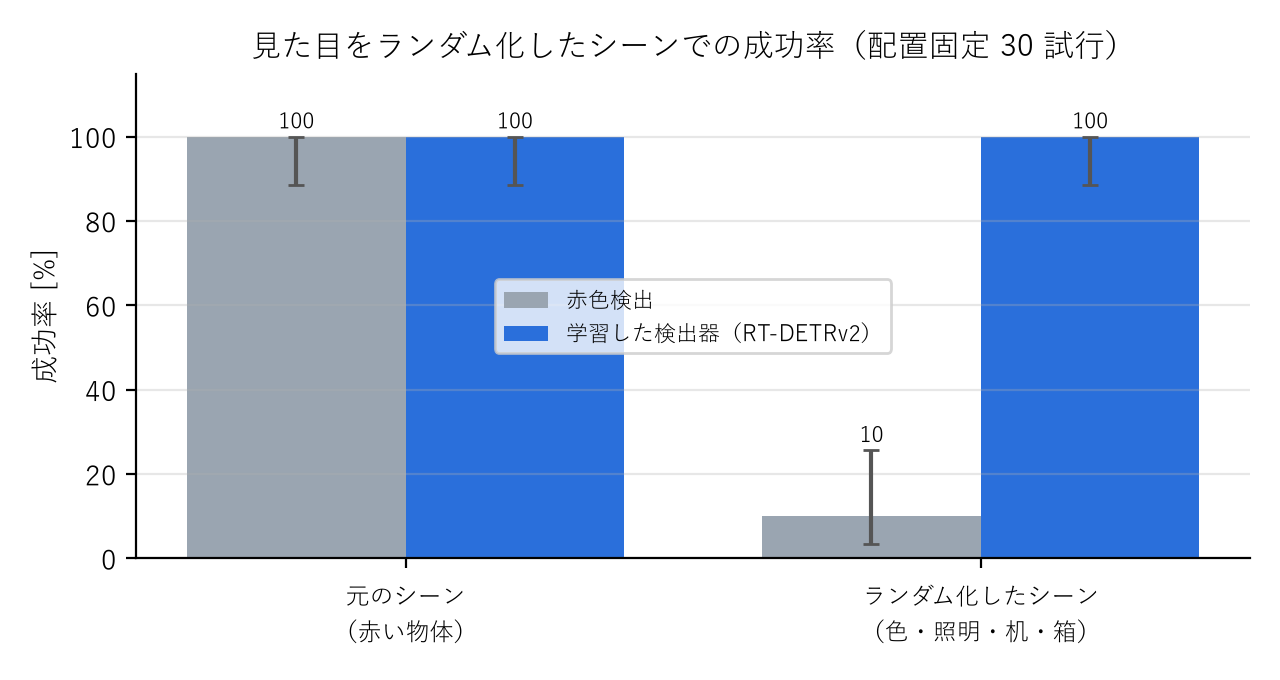
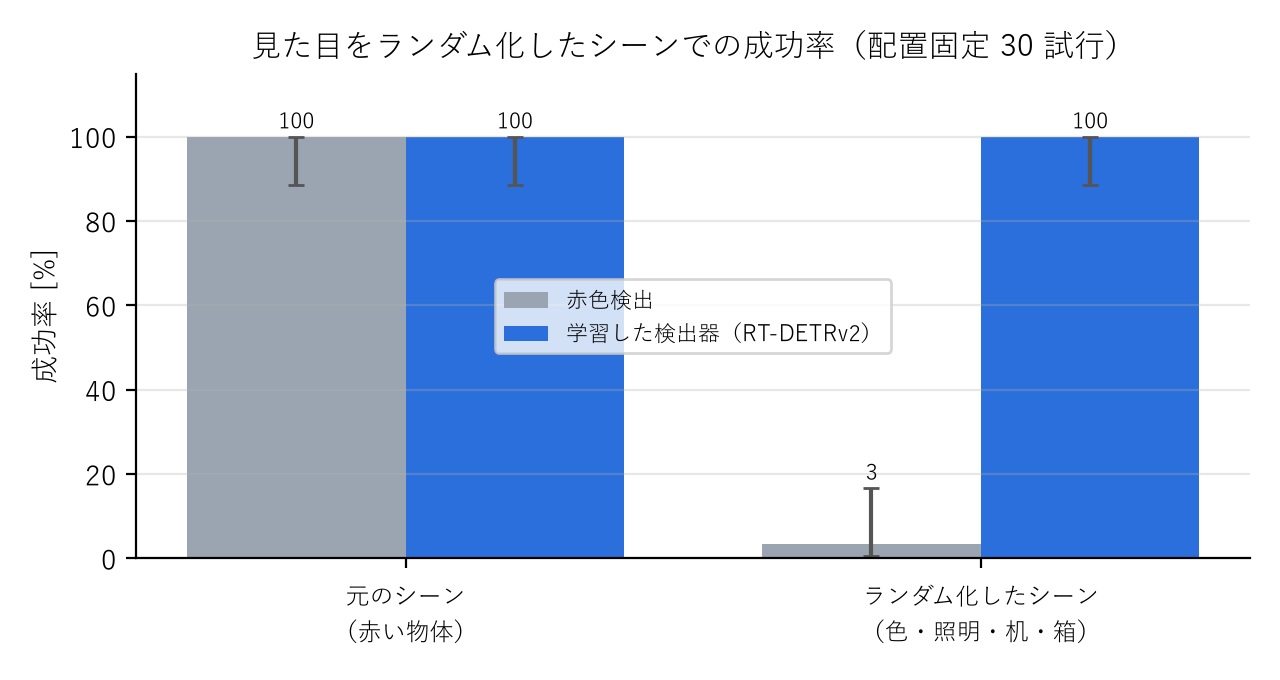
評価でシーンの見た目を物体の置き直しより先に変える（赤色検出への情報の漏れを修正）。レポート・動画に物体検出器を反映
- policy_evaluator: 配置が分かる場合は見た目を先に変える。測り直しで赤色検出 1/30・学習した検出器 30/30
- eval_positions/eval_paired: 推論ノードの起動をサービスの出現で待つ
- 動画: 検出例と俯瞰カメラ映像での比較場面を追加（2 分 8 秒）。レポートの数値を更新

Changed region(s): [[0.5938, 0.7412, 0.7812, 0.8029], [0.6562, 0.6176, 0.6875, 0.7103]]

diff --git a/scripts/video/compose.py b/scripts/video/compose.py
@@ -102,8 +102,8 @@ class Composer:
         return p
 
     # ---- 素材の切り出し ----
-    def trial_windows(self, clip, trials):
-        """events.csv から試行ごとの [方策 ON の 0.5 秒前, 成功の 1 秒後（なければ OFF）] を返す."""
+    def trial_windows(self, clip, trials, tail=1.0):
+        """events.csv から試行ごとの [方策 ON の 0.5 秒前, 成功の tail 秒後（なければ OFF）] を返す."""
         rows = list(csv.DictReader(open(self.media / f'{clip}.mp4.events.csv')))
         ons = [i for i, r in enumerate(rows) if r['event'] == 'policy_on']
         out = []
@@ -113,7 +113,7 @@ class Composer:
             end = None
             for r in rows[i + 1:]:
                 if r['event'] == 'success':
-                    end = float(r['time']) + 1.0
+                    end = float(r['time']) + tail
                     break
                 if r['event'] == 'policy_off':
                     end = float(r['time'])
@@ -152,16 +152,19 @@ class Composer:
                      *self.encode_opts(), str(out)])
         return out
 
-    def compare(self, left, right, window_l, window_r, speed, max_seconds, overlay, crop=None):
+    def compare(self, left, right, window_l, window_r, speed, max_seconds, overlay, crop=None, panel_height=None):
         out = self.segment_out()
-        hw, hh = self.W // 2, self.H // 2
+        hw, hh = self.W // 2, panel_height or self.H // 2   # 左右それぞれの映像の大きさ
 
         def part(idx, w):
             s, e = w
             trim = f'trim=start={s}' + (f':end={e}' if e is not None else '')
             # crop: 素材のうち使う範囲 [x, y, 幅, 高さ]（素材サイズに対する割合）。ロボット周辺を拡大する
             cr = f'crop=iw*{crop[2]}:ih*{crop[3]}:iw*{crop[0]}:ih*{crop[1]},' if crop else ''
-            return f'[{idx}:v]{trim},setpts=(PTS-STARTPTS)/{speed},fps={self.fps},{cr}scale={hw}:{hh}[p{idx}]'
+            # 縦横比を保って縮小し、余白で {hw}x{hh} にそろえる（俯瞰カメラの 4:3 の映像も歪めない）
+            return (f'[{idx}:v]{trim},setpts=(PTS-STARTPTS)/{speed},fps={self.fps},{cr}'
+                    f'scale={hw}:{hh}:force_original_aspect_ratio=decrease,'
+                    f'pad={hw}:{hh}:(ow-iw)/2:(oh-ih)/2:color=0x101622[p{idx}]')
 
         dur = f',trim=end={max_seconds}' if max_seconds else ''
         filt = (f'{part(0, window_l)};{part(1, window_r)};'
@@ -197,9 +200,10 @@ class Composer:
                                        self.label_layer([item['left_label'], item['right_label']]))
                 k = item['trials'][0]
                 segs.append(self.compare(item['left'], item['right'],
-                                         self.trial_windows(item['left'], [k])[0],
-                                         self.trial_windows(item['right'], [k])[0],
-                                         speed, item.get('max_seconds'), overlay, item.get('crop')))
+                                         self.trial_windows(item['left'], [k], item.get('tail', 1.0))[0],
+                                         self.trial_windows(item['right'], [k], item.get('tail', 1.0))[0],
+                                         speed, item.get('max_seconds'), overlay, item.get('crop'),
+                                         item.get('panel_height')))
             else:
                 raise ValueError(f'unknown timeline type: {t}')
         lst = self.work / 'list.txt'

diff --git a/ros2_ws/src/pai_task_env/pai_task_env/policy_evaluator.py b/ros2_ws/src/pai_task_env/pai_task_env/policy_evaluator.py
@@ -161,6 +161,19 @@ class PolicyEvaluator(Node):
         while time.monotonic() < end and self.status.get('episode') == before:
             self.spin_for(0.05)
 
+    def reset_and_randomize(self, i):
+        """物体を置き直し、有効ならシーンの見た目を変える.
+
+        配置が事前に分かる場合は見た目を先に変える。置き直した後に変えると、変わるまでの間に
+        検出器が元の見た目（赤い物体）を見て推定値を保持してしまい、評価が甘くなる（2026-10-11 に発見）。
+        """
+        known = self.positions is not None
+        if known:
+            self.randomize_scene(i)
+        self.reset_object(i)
+        if not known:
+            self.randomize_scene(i)
+
     def randomize_scene(self, i):
         """有効ならシーンをランダムに変える（物体位置はダミーと重ならないよう考慮）."""
         if self.randomizer is None:
@@ -187,8 +200,7 @@ class PolicyEvaluator(Node):
         self.set_bool('/teleop/enable', True)
         if self.observe:
             self.move_ee(*self.observe_ee, duration=self.observe_move_time)
-            self.reset_object(i)
-            self.randomize_scene(i)
+            self.reset_and_randomize(i)
             self.spin_for(0.5)
             if not self.wait_detection():
                 self.get_logger().warn('object was not detected before the trial')
@@ -199,8 +211,7 @@ class PolicyEvaluator(Node):
         else:
             self.trigger('/teleop/home')
             self.spin_for(self.settle_time)
-            self.reset_object(i)
-            self.randomize_scene(i)
+            self.reset_and_randomize(i)
             self.status = {}
             self.spin_for(self.settle_time)
             self.wait_settled()

diff --git a/scripts/video/record_clips.py b/scripts/video/record_clips.py
@@ -3,6 +3,7 @@
 python3 ~/final_task/scripts/video/record_clips.py [clip 名 ...]   # 省略時は docs/report/video.yaml の全 clip
 Gazebo GUI の 3D ビューを画面録画し（capture 設定）、方策 ON/OFF・成功の時刻を event_logger で記録する。
 出力: <media_dir>/<clip>.mp4 と <clip>.mp4.events.csv（動画内の秒）
+clip に overhead: true があれば、俯瞰カメラの映像も <clip>_overhead.mp4（＋events）として保存する（frame_recorder）。
 """
 import csv
 import os
@@ -50,6 +51,12 @@ def record(name, spec, cap, media_dir):
                              '-video_size', f'{w}x{h}', '-i', f"{cap['display']}+{x},{y}",
                              '-c:v', 'libx264', '-preset', 'ultrafast', '-crf', '18', str(out)],
                             stdin=subprocess.PIPE, start_new_session=True)
+    overhead = None
+    if spec.get('overhead'):
+        overhead = subprocess.Popen(['ros2', 'run', 'pai_task_env', 'frame_recorder', '--ros-args',
+                                     '-p', f'output:={media_dir / (name + "_overhead.mp4")}',
+                                     '-p', 'topic:=/task/camera/image', '-p', 'fps:=10.0', '-p', 'duration:=0.0'],
+                                    start_new_session=True)
     try:
         if spec['kind'] == 'eval':
             pos = ','.join(str(v) for v in spec['positions'])
@@ -66,6 +73,8 @@ def record(name, spec, cap, media_dir):
     finally:
         grab.communicate(b'q', timeout=30)   # ffmpeg は q で正常終了（mp4 を閉じる）
         stop(logger)
+        if overhead is not None:
+            stop(overhead)
     to_video_time(abs_csv, Path(f'{out}.events.csv'), t0)
     abs_csv.unlink()
     print(f'recorded {out}', flush=True)

diff --git a/docs/design/perception/detector.md b/docs/design/perception/detector.md
@@ -56,11 +56,13 @@
 | シーン | 物体位置の推定 | 成功率 | 95% CI |
 |---|---|---|---|
 | ランダム化 | **学習した検出器** | **30/30 = 100%** | 89–100% |
-| ランダム化 | 赤色検出 | 3/30 = 10% | 3–26% |
+| ランダム化 | 赤色検出 | 1/30 = 3% | 1–17% |
 | 元のシーン（赤い物体） | 学習した検出器 | 30/30 = 100% | 89–100% |
 | 元のシーン（赤い物体） | 赤色検出（実験9） | 30/30 = 100% | 89–100% |
 
 - 学習した検出器は、見た目が変わっても元のシーンと同じ成功率を保った。赤色検出は物体が赤系でないと検出できず、ほぼ失敗する
+- 評価手順の修正（2026-10-11）: 当初は「物体を置き直す → 見た目を変える」の順で、変わるまでの間に赤色検出が赤い物体を見て推定値を保持していた
+  （赤色検出 3/30 は甘い結果）。配置が分かる場合は見た目を先に変えるよう `policy_evaluator` を直し、両方を測り直した（上の表は修正後。学習した検出器は修正前も 30/30）
 - 方策（ACT）は再学習していない。物体位置の推定を差し替えるだけで頑健性が上がった
 
 起動手順:
@@ -68,6 +70,8 @@
 TASK_ENV_ARGS="red_detector:=false" ~/final_task/scripts/sim/start_stack.sh
 cd ~/pai_training && pixi run --frozen detect-node --config configs/detection/detect_rtdetr.yaml &
 EVAL_ARGS="-p scene_randomization.enabled:=true" bash ~/final_task/scripts/sim/eval_paired.sh 0 30 dr_learned:configs/pick/infer_objpos_startrand_camera.yaml
+# 赤色検出と同時に動かして比べる場合: 検出ノードを detect_rtdetr_parallel.yaml（/task/object_pose_learned）で起動し、
+# 推論は infer_objpos_startrand_learned.yaml を使う（タスク環境は red_detector:=true のまま）
 ```
 
 ## 限界

diff --git a/docs/work_log/20261011.md b/docs/work_log/20261011.md
@@ -74,7 +74,9 @@
 ### 学習ベースの物体検出器（ADR 0008, 詳細は docs/design/perception/detector.md）
 - ドメインランダム化した俯瞰画像を自動生成（1200 枚＋評価用 300 枚。正解の枠は円柱の投影で自動付与）し、RT-DETRv2 を学習（約 13 分）
 - 評価画像で位置誤差 平均 0.28mm・全数検出（赤色検出は 9/300）。枠の中心から側面の見え方を補正して位置を逆算
-- 方策での評価（配置固定 30）: ランダム化シーンで学習した検出器 30/30・赤色検出 3/30、元のシーンでも 30/30
+- 方策での評価（配置固定 30）: ランダム化シーンで学習した検出器 30/30・赤色検出 1/30（評価手順の修正後。修正前は 3/30）、元のシーンでも 30/30
+  - 評価手順の不備: 物体を置き直してから見た目を変えていたため、その間に赤色検出が赤い物体を見て推定を保持していた → 見た目を先に変えるよう修正
+- レポートに 4.8 節、動画に検出器の比較場面（俯瞰カメラ映像。GUI はランダム化した照明で暗く映るため）を追加。動画は 2 分 8 秒
 - トラブル: 生成が遅い（30 秒/枚）→ 箱の使い回し・IK での事前判定・並列呼び出しで 5.6 秒/枚。照明設定で範囲・減衰が 0 になり暗くなった。
   ign-transport の不調（Host unreachable、ロボットが出現しない）→ compose に `IGN_IP=127.0.0.1`、start_stack でロボットの出現を確認
 - 従来のスクリプトデモ・赤色検出が動くことを確認（スクリプトデモ 2/2）

diff --git a/docs/decision/index.md b/docs/decision/index.md
@@ -9,4 +9,4 @@
 | [0005](0005-物体位置の取得方式.md) | 物体位置の取得方式 | OdometryPublisher + ros_gz_bridge で物体の world 姿勢を取得 |
 | [0006](0006-把持アシスト.md) | 把持アシスト | 摩擦把持が滑落するため DetachableJoint で attach/detach |
 | [0007](0007-スクリプトデモによるデータ生成.md) | スクリプトデモによるデータ生成 | 比較実験用に物体位置を使うスクリプトデモで自動収録。人手デモは操作性評価・混合に使用 |
-| [0008](0008-学習ベースの物体検出器.md) | 学習ベースの物体検出器 | 赤色検出を RT-DETRv2（Apache-2.0）＋ドメインランダム化に置き換え。実装済み（ランダム化シーンで 30/30、赤色検出は 3/30） |
+| [0008](0008-学習ベースの物体検出器.md) | 学習ベースの物体検出器 | 赤色検出を RT-DETRv2（Apache-2.0）＋ドメインランダム化に置き換え。実装済み（ランダム化シーンで 30/30、赤色検出は 1/30） |

diff --git a/docs/decision/0008-学習ベースの物体検出器.md b/docs/decision/0008-学習ベースの物体検出器.md
@@ -17,7 +17,7 @@
 
 ## 結果（2026-10-11）
 - 未使用の評価画像 300 枚で位置誤差 平均 0.28mm（全数検出）。赤色検出は 9/300 しか検出できない
-- 見た目をランダム化したシーンで方策の成功率 30/30（赤色検出は 3/30）。元のシーンでも 30/30
+- 見た目をランダム化したシーンで方策の成功率 30/30（赤色検出は 1/30。評価手順の修正後）。元のシーンでも 30/30
 - 実装上の判断: 学習には pai_training の pixi 環境（transformers 4.52 に RT-DETRv2 が含まれる）を使い、新しい依存は追加しない
 
 ## 結果（当初の見込み）
